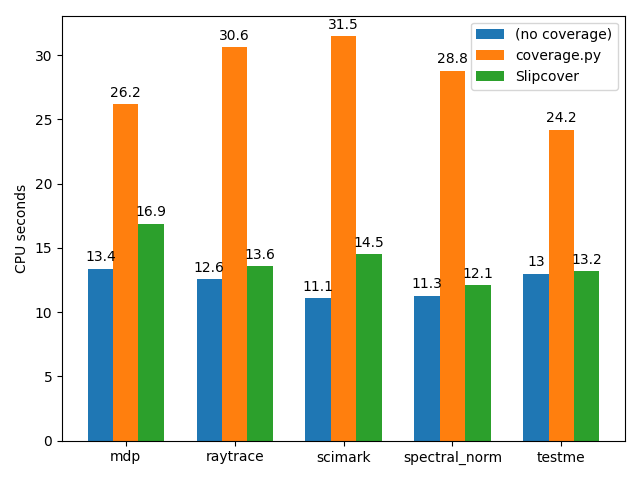
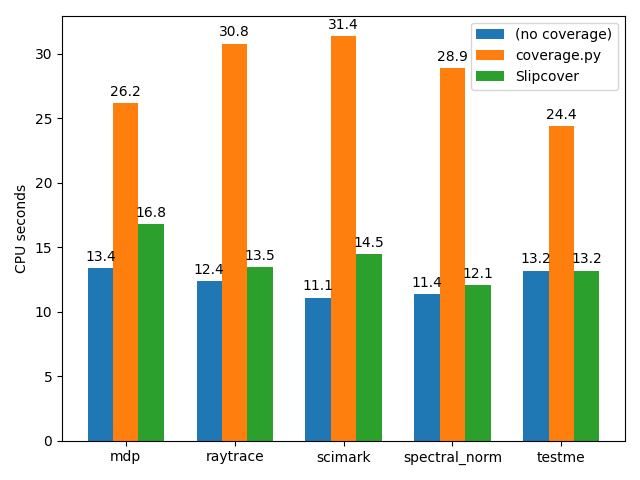
- updated benchmarks re-evaluated as median of 5;

diff --git a/README.md b/README.md
@@ -39,8 +39,8 @@ tracking, tracking coverage using [coverage.py](https://github.com/nedbat/covera
 and tracking coverage using Slipcover.
 While each program's structure can affect Slipcover's ability to de-instrument,
 its running time stays relatively close to the original;
-coverage.py incurs between 86% and 184% overhead, while
-Slipcover's stays between 1% and 31%.
+coverage.py incurs between 85% and 184% overhead, while
+Slipcover's stays between 0% and 31%.
 
 Some of the sample programs are our own, while others were derived
 from the [Python Benchmark Suite](https://github.com/python/pyperformance).
